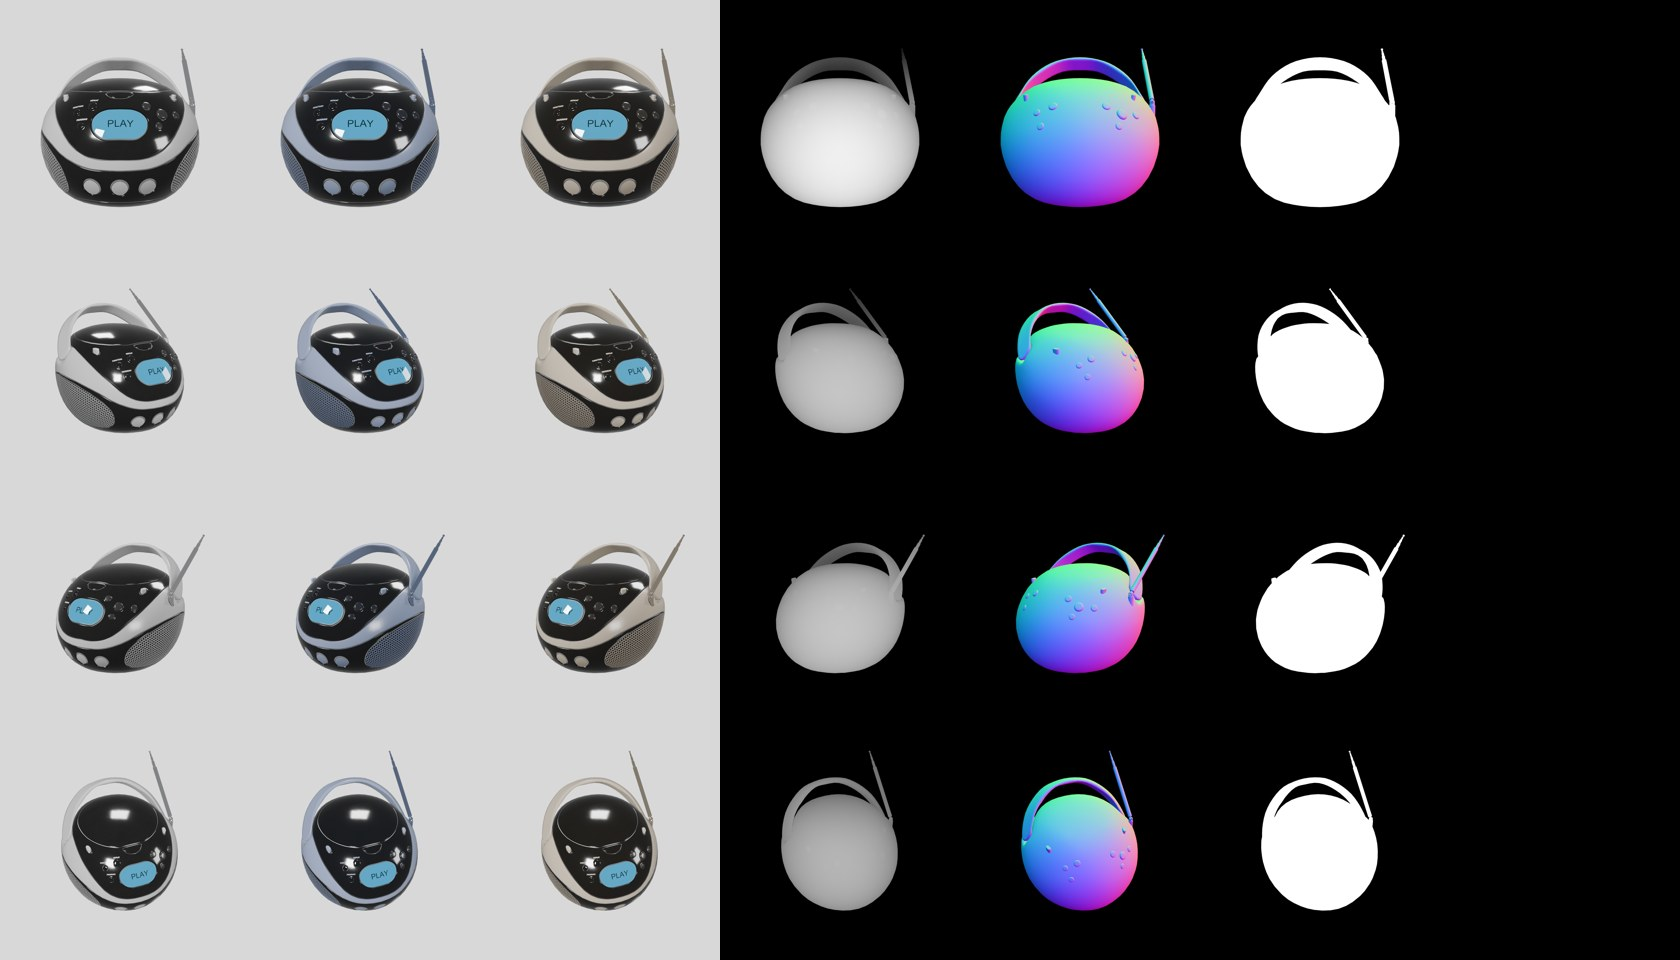
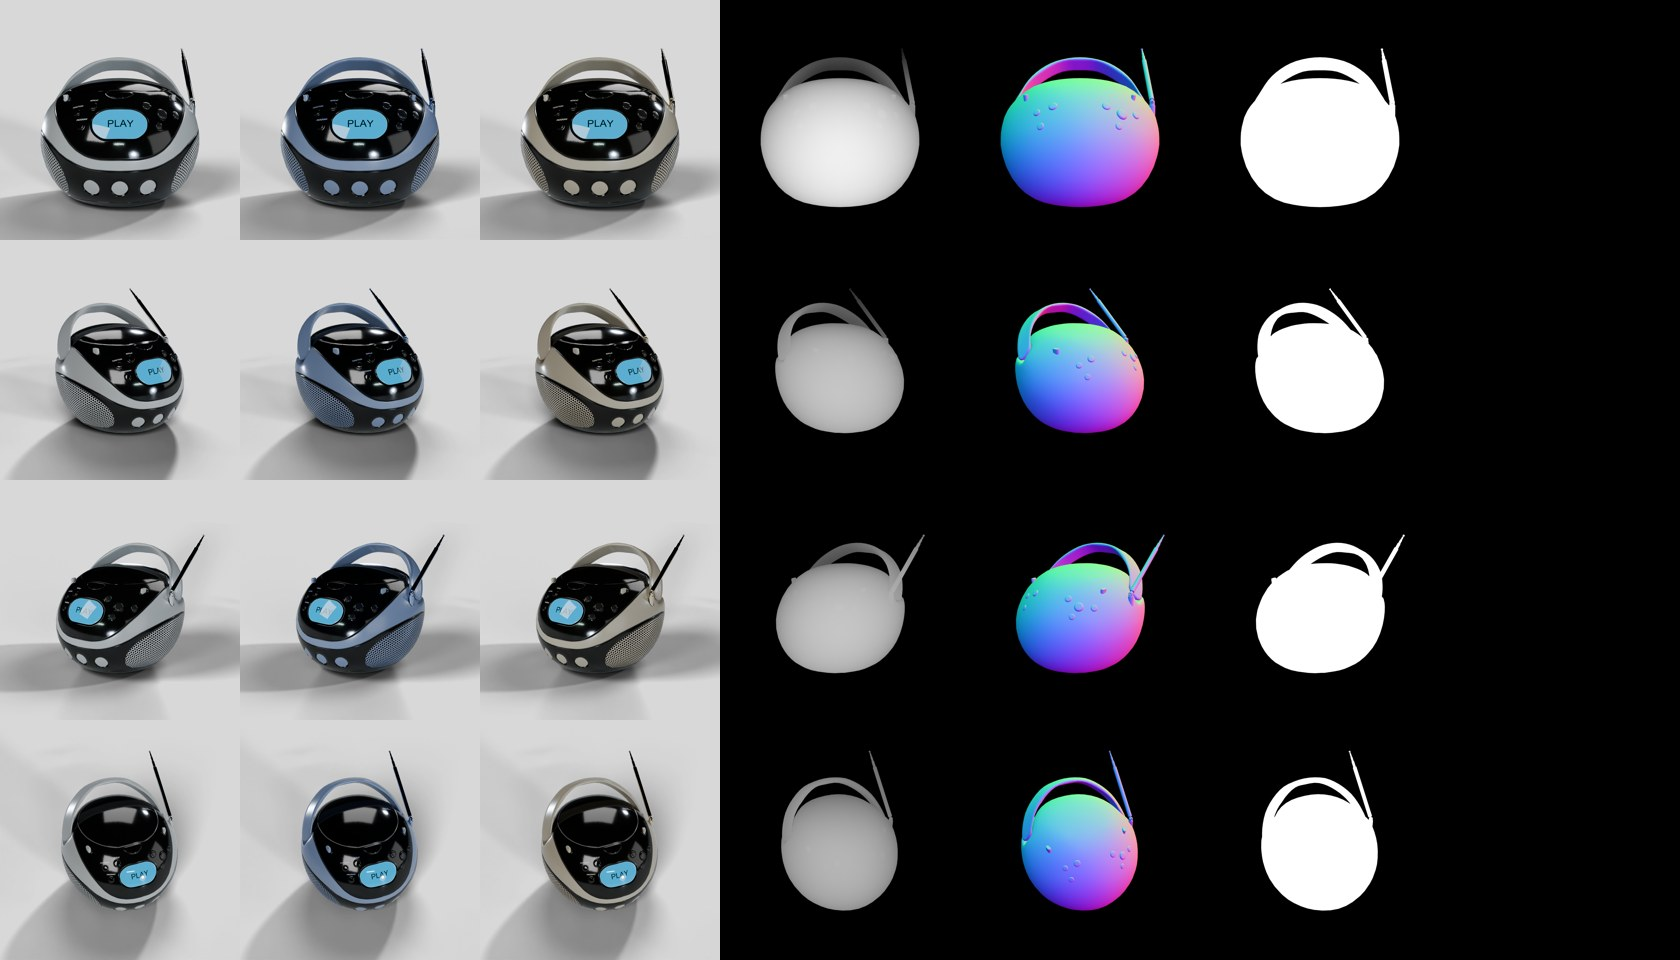
Beauty renders: Cycles on the GPU, studio HDRI, contact shadow, micro surface; LUMEN gets a pixel boot screen

diff --git a/pipeline/passes.py b/pipeline/passes.py
@@ -13,6 +13,7 @@ from mathutils import Vector
 args = sys.argv[sys.argv.index('--') + 1:]
 PRODUCT, OUT = os.path.abspath(args[0]), os.path.abspath(args[1])
 QUICK = '--quick' in args
+ONLY = args[args.index('--view') + 1] if '--view' in args else None  # render one view, to iterate fast
 spec = json.load(open(os.path.join(PRODUCT, 'product.json'), encoding='utf-8'))
 os.makedirs(OUT, exist_ok=True)
 
@@ -117,11 +118,33 @@ def apply_colorway(cw):
                 nt.links.new(tint.outputs['Result'], base)
             tint.inputs['Factor'].default_value = props.get('tint_strength', 1.0)
             tint.inputs['B'].default_value = (*props.get('color', (1, 1, 1)), 1)
-        for key, socket in (('roughness', 'Roughness'), ('metallic', 'Metallic'), ('transmission', 'Transmission Weight')):
+        for key, socket in (('roughness', 'Roughness'), ('metallic', 'Metallic'), ('transmission', 'Transmission Weight'),
+                            ('coat', 'Coat Weight')):
             if key in props:
                 p.inputs[socket].default_value = props[key]
 
 
+RENDER = spec.get('render', {})
+
+
+def micro_surface(strength):
+    """A faint noise bump on every material without a normal map: real surfaces are never perfectly smooth."""
+    for m in {s.material for o in meshes for s in o.material_slots if s.material}:
+        nt = m.node_tree
+        p = nt.nodes.get('Principled BSDF')
+        if not p or p.inputs['Normal'].is_linked:
+            continue
+        tex = nt.nodes.new('ShaderNodeTexNoise')
+        tex.inputs['Scale'].default_value = 2500 / max(radius, 1e-3) * 0.05  # the grain follows the product size
+        tex.inputs['Detail'].default_value = 6
+        bump = nt.nodes.new('ShaderNodeBump')
+        bump.inputs['Strength'].default_value = strength
+        bump.inputs['Distance'].default_value = radius * 0.0004
+        nt.links.new(tex.outputs['Fac'], bump.inputs['Height'])
+        nt.links.new(bump.outputs['Normal'], p.inputs['Normal'])
+
+
+micro_surface(RENDER.get('micro_surface', 0.15))
 original = {o.name: [s.material for s in o.material_slots] for o in meshes}
 
 
@@ -149,18 +172,47 @@ def is_protected(o):
 
 # ---------- scene ----------
 sc = bpy.context.scene
-for engine in ('BLENDER_EEVEE', 'BLENDER_EEVEE_NEXT'):
-    try:
-        sc.render.engine = engine
-        break
-    except TypeError:
-        pass
+EEVEE = next(e for e in ('BLENDER_EEVEE', 'BLENDER_EEVEE_NEXT')
+             if e in [i.identifier for i in bpy.types.RenderSettings.bl_rna.properties['engine'].enum_items])
+
+
+def use_engine(engine):
+    sc.render.engine = engine
+    if engine == 'CYCLES':
+        sc.cycles.samples = RENDER.get('samples', 128)
+        sc.cycles.use_denoising = True
+        prefs = bpy.context.preferences.addons['cycles'].preferences
+        for kind in ('OPTIX', 'CUDA', 'HIP', 'METAL', 'ONEAPI'):  # the fastest GPU backend there is, else the CPU
+            try:
+                prefs.compute_device_type = kind
+                prefs.get_devices()
+                if any(d.type == kind for d in prefs.devices):
+                    for d in prefs.devices:
+                        d.use = d.type == kind
+                    sc.cycles.device = 'GPU'
+                    return
+            except TypeError:
+                pass
+        sc.cycles.device = 'CPU'
+
+
+use_engine(EEVEE)
 sc.render.resolution_x = sc.render.resolution_y = RES
 sc.render.image_settings.file_format = 'PNG'
 world = bpy.data.worlds.new('world')
 world.use_nodes = True
 bg = world.node_tree.nodes['Background']
 sc.world = world
+# a studio HDRI for reflections; Blender ships it, so every machine has the same one
+hdri = world.node_tree.nodes.new('ShaderNodeTexEnvironment')
+hdri.image = bpy.data.images.load(os.path.join(bpy.utils.system_resource('DATAFILES'), 'studiolights', 'world',
+                                               RENDER.get('hdri', 'studio.exr')))
+# the floor only catches shadows, so the beauty keeps its transparent background
+bpy.ops.mesh.primitive_plane_add(size=1)
+floor = bpy.context.object
+floor.scale = (radius * 30,) * 3
+floor.is_shadow_catcher = True
+floor.hide_render = True
 cam = bpy.data.objects.new('camera', bpy.data.cameras.new('camera'))
 sc.collection.objects.link(cam)
 sc.camera = cam
@@ -194,8 +246,8 @@ def lights(on):
         l = bpy.data.objects.new('light', bpy.data.lights.new('light', 'AREA'))
         sc.collection.objects.link(l)
         l.location = center + Vector(loc) * dist
-        l.data.size = radius * 2
-        l.data.energy = k * 12 * (Vector(loc) * dist).length ** 2  # same look at any product size
+        l.data.size = radius * 4  # big, soft sources: product light, not a torch
+        l.data.energy = k * RENDER.get('light', 2.5) * (Vector(loc) * dist).length ** 2  # same look at any size
         l.rotation_euler = (center - l.location).to_track_quat('-Z', 'Y').to_euler()
 
 
@@ -203,6 +255,14 @@ def render(path, transparent=False, view='Standard'):
     sc.render.film_transparent = transparent
     sc.render.image_settings.color_mode = 'RGBA' if transparent else 'RGB'
     sc.view_settings.view_transform = view
+    sc.view_settings.look = 'None'
+    if view == 'AgX':
+        for look in ('AgX - Medium High Contrast', 'Medium High Contrast'):
+            try:
+                sc.view_settings.look = look
+                break
+            except TypeError:
+                pass
     sc.render.filepath = path
     bpy.ops.render.render(write_still=True)
 
@@ -211,6 +271,8 @@ manifest = {'product': spec.get('name'), 'resolution': RES, 'lens_mm': LENS, 'ce
             'size_m': list(hi - lo), 'views': {}, 'colorways': list(spec['colorways'])}
 colorways = list(spec['colorways'])[:1] if QUICK else list(spec['colorways'])
 for view, (az, el) in VIEWS.items():
+    if ONLY and view != ONLY:
+        continue
     a, e = math.radians(az), math.radians(el)
     used = frame(Vector((math.sin(a) * math.cos(e), -math.cos(a) * math.cos(e), math.sin(e))))
     d = os.path.join(OUT, view)
@@ -231,13 +293,19 @@ for view, (az, el) in VIEWS.items():
         paint(fn)
         render(os.path.join(d, f'{name}.png'), view='Raw')  # data, not a picture: no tone mapping
         restore()
-    # beauty: the real materials in a neutral studio, one per colourway, on transparent background
+    # beauty: the real materials in a studio, one per colourway, with a contact shadow on a transparent background
+    use_engine('CYCLES')
     lights(True)
-    bg.inputs['Color'].default_value = (0.8, 0.8, 0.82, 1)
-    bg.inputs['Strength'].default_value = 0.35
+    world.node_tree.links.new(hdri.outputs['Color'], bg.inputs['Color'])
+    bg.inputs['Strength'].default_value = RENDER.get('hdri_strength', 0.45)
+    floor.hide_render = False
     for cw in colorways:
         apply_colorway(cw)
         render(os.path.join(d, f'beauty_{cw}.png'), transparent=True, view='AgX')
+    floor.hide_render = True
+    for l in list(bg.inputs['Color'].links):
+        world.node_tree.links.remove(l)
+    use_engine(EEVEE)
     manifest['views'][view] = {'azimuth': az, 'elevation': el, 'camera': list(cam.location), 'distance': used}
     print('view done', view)
 

diff --git a/fixtures/lumen/build.py b/fixtures/lumen/build.py
@@ -109,12 +109,77 @@ def material(name, color, rough=0.45, emit=0.0, clear=False, metal=0.0):
     return m
 
 
+# ---------- the screen: a dot-matrix boot screen, drawn from code ----------
+FONT = {  # 5 x 7 pixel letters
+    'L': ['10000'] * 6 + ['11111'], 'U': ['10001'] * 6 + ['01110'], 'M': ['10001', '11011', '10101', '10001', '10001', '10001', '10001'],
+    'E': ['11111', '10000', '10000', '11110', '10000', '10000', '11111'], 'N': ['10001', '11001', '10101', '10011', '10001', '10001', '10001'],
+}
+
+
+def boot_screen(tint):
+    """160 x 144 pixels, like the handhelds it nods to: the wordmark, a sun and hills."""
+    w, h = 160, 144
+    px = [[0.0] * w for _ in range(h)]  # 0 = background, 1 = mid, 2 = dark
+    x = 40
+    for ch in 'LUMEN':
+        for r, row in enumerate(FONT[ch]):
+            for col, bit in enumerate(row):
+                if bit == '1':
+                    for dy in range(2):
+                        for dx in range(2):
+                            px[40 + r * 2 + dy][x + col * 2 + dx] = 2
+        x += 16
+    for yy in range(h):
+        for xx in range(w):
+            if (xx - 118) ** 2 + (yy - 78) ** 2 < 90:
+                px[yy][xx] = max(px[yy][xx], 1)
+            hill = 108 + 10 * math.sin(xx / 17) + 5 * math.sin(xx / 7 + 1)
+            if yy > hill:
+                px[yy][xx] = 2 if yy > hill + 16 else 1
+    levels = [[v * 1.0 for v in tint], [v * 0.62 for v in tint], [v * 0.25 for v in tint]]
+    img = bpy.data.images.new('lcd', w, h)
+    flat = []
+    for yy in range(h - 1, -1, -1):  # Blender images start at the bottom row
+        for xx in range(w):
+            flat += [*levels[int(px[yy][xx])], 1.0]
+    img.pixels = flat
+    img.filepath_raw = os.path.join(OUT, 'lcd.png')
+    img.file_format = 'PNG'
+    img.save()
+    img.pack()
+    return img
+
+
+def screen_material(tint):
+    m = material('screen', (1, 1, 1), 0.2)
+    nt = m.node_tree
+    tex = nt.nodes.new('ShaderNodeTexImage')
+    tex.image = boot_screen(tint)
+    tex.interpolation = 'Closest'  # crisp pixels
+    p = nt.nodes['Principled BSDF']
+    nt.links.new(tex.outputs['Color'], p.inputs['Base Color'])
+    nt.links.new(tex.outputs['Color'], p.inputs['Emission Color'])
+    p.inputs['Emission Strength'].default_value = 0.35
+    return m
+
+
+def planar_uv(ob):
+    """Front projection: the screen image lands flat on the display face."""
+    me = ob.data
+    uv = me.uv_layers.new(name='UVMap')
+    xs = [v.co.x for v in me.vertices]
+    zs = [v.co.z for v in me.vertices]
+    for loop in me.loops:
+        co = me.vertices[loop.vertex_index].co
+        uv.data[loop.index].uv = ((co.x - min(xs)) / (max(xs) - min(xs)), (co.z - min(zs)) / (max(zs) - min(zs)))
+
+
 # ---------- the console ----------
 def build(cw):
     c = COLORWAYS[cw]
     body = material('body', c['body'], c['rough'], clear=c['clear'])
     bezel = material('bezel', c['bezel'], 0.25)
-    screen = material('screen', c['screen'], 0.15, emit=0.6)
+    screen = screen_material(c['screen'])
     dpad = material('dpad', c['dpad'], 0.4)
     ab = material('ab', c['ab'], 0.3)
     pills = material('pills', c['pills'], 0.7)
@@ -140,6 +205,7 @@ def build(cw):
         if o.name == 'bezel':
             o.location.z = bz
     s = prism('screen', rounded_profile(0.050, 0.044, (0.0008,) * 4), -0.0013, 0.0004, screen, 0, 2)
+    planar_uv(s)
     s.location = (0.002, 0, bz + 0.002)
     cylinder('power_led', 0.0012, 0.0006, -0.031, -0.0014, bz + 0.008, led, 2, 0)
     bpy.ops.object.text_add(location=(-0.036, -0.0003, -0.0105), rotation=(math.radians(90), 0, 0))
@@ -248,6 +314,8 @@ def export_product(folder):
                 continue
             mats[mat] = {'color': list(c[key])}
         mats['body'].update(roughness=c['rough'], transmission=0.92 if c['clear'] else 0.0)
+        mats['screen'] = {'color': [1, 1, 1], 'roughness': 0.2, 'coat': 1.0}  # the LCD is a texture; a glass cover on top
+        mats['bezel'].update(coat=0.6)
         colorways[cw] = mats
     spec = {
         'name': 'LUMEN',

diff --git a/README.md b/README.md
@@ -50,7 +50,11 @@ one textured material at 2 cm in its file, rescaled and framed with no changes t
 
 ![BoomBox passes](docs/img/boombox-passes.jpg)
 
-Known limit: the beauty renders use EEVEE for speed, so the Clear Smoke shell reads as opaque. The control passes are not affected.
+The control passes render with EEVEE, in seconds. The beauty renders use Cycles on the GPU (OptiX when there is one), with
+Blender's bundled studio HDRI for reflections, a shadow-catcher floor for the contact shadow, soft area lights scaled to
+the product, and a faint micro-surface bump on every material. `product.json` can tune it under `render`
+(`samples`, `light`, `hdri`, `hdri_strength`, `micro_surface`), and a colorway can add `coat` to any material.
+`--view <name>` renders one view, to iterate fast.
 
 ## The first test product: LUMEN
 
